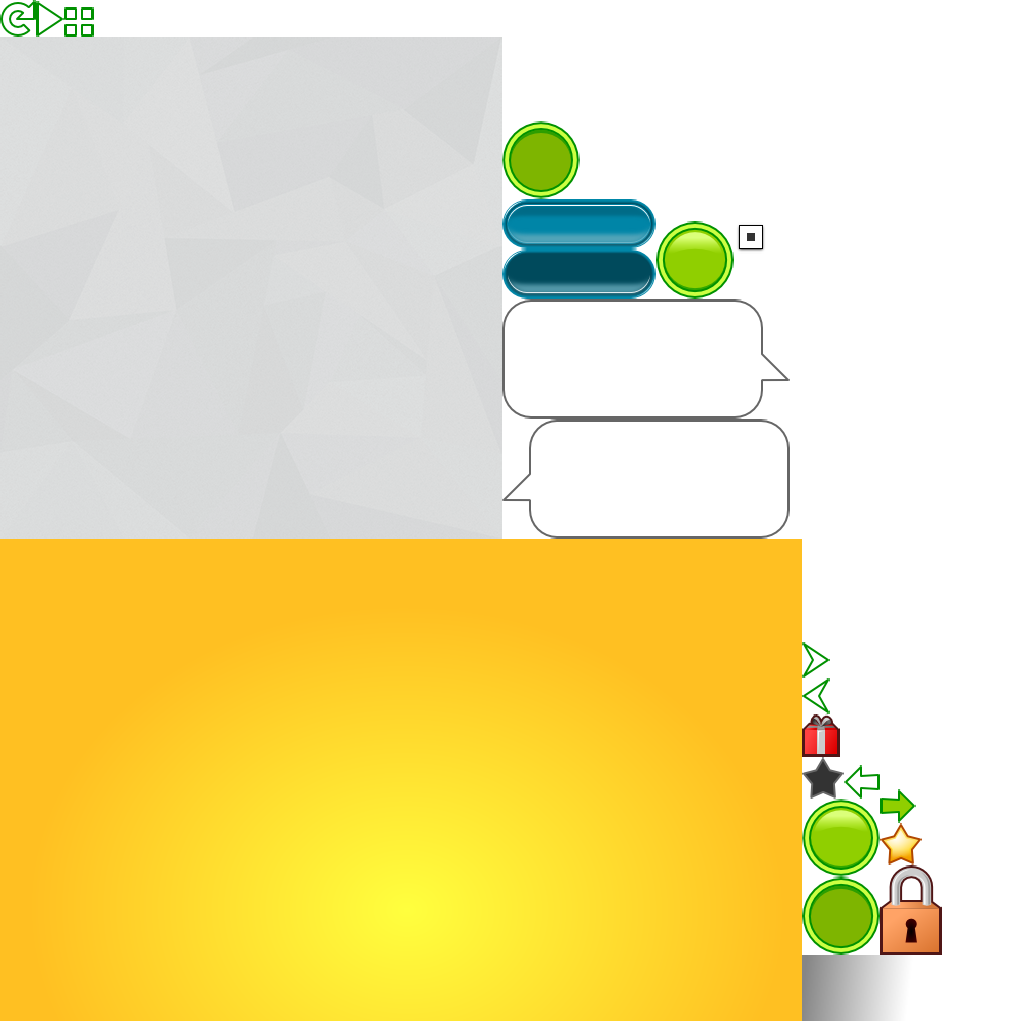
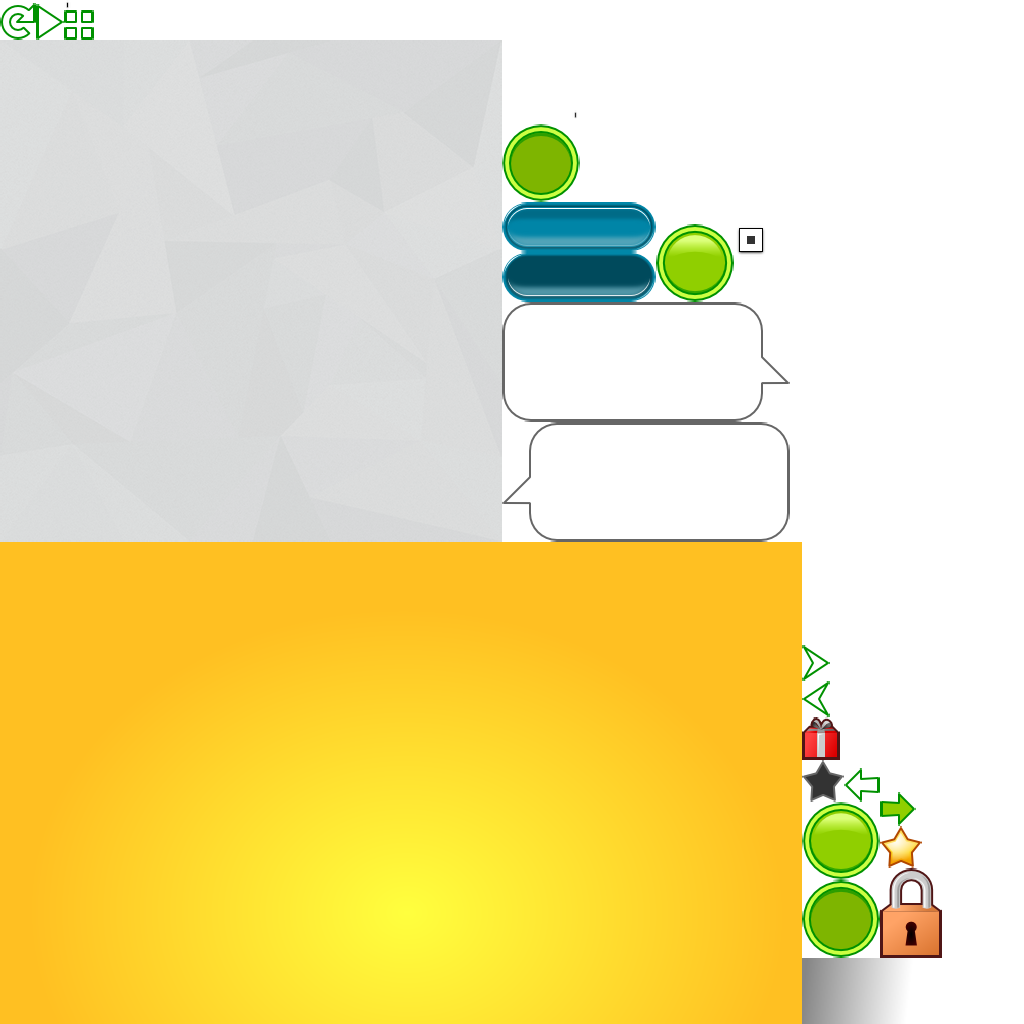
Draw a ruler between world and sandbox buttons

diff --git a/burgerparty/src/com/agateau/burgerparty/screens/WorldListScreen.java b/burgerparty/src/com/agateau/burgerparty/screens/WorldListScreen.java
@@ -6,6 +6,7 @@ import com.agateau.burgerparty.Assets;
 import com.agateau.burgerparty.BurgerPartyGame;
 import com.agateau.burgerparty.utils.AnchorGroup;
 import com.agateau.burgerparty.utils.Signal1;
+import com.agateau.burgerparty.utils.TiledImage;
 import com.agateau.burgerparty.view.BurgerPartyUiBuilder;
 import com.agateau.burgerparty.view.WorldBaseButton;
 import com.agateau.burgerparty.view.WorldListView;
@@ -49,7 +50,16 @@ public class WorldListScreen extends BurgerPartyScreen {
 		protected Actor createActorForElement(XmlReader.Element element) {
 			if (element.getName().equals("WorldListView")) {
 				WorldListView view = new WorldListView(getGame().getLevelWorlds(), -1, getGame().getAssets(), WorldListView.Details.SHOW_STARS);
-				view.addActor(new SandBoxButton());
+
+				SandBoxButton button = new SandBoxButton();
+
+				Actor ruler = new TiledImage(getGame().getAssets().getTextureAtlas().findRegion("ui/vruler"));
+				ruler.setHeight(button.getPrefHeight());
+				ruler.setWidth(6);
+				ruler.setColor(1, 1, 1, 0.4f);
+
+				view.addActor(ruler);
+				view.addActor(button);
 				return view;
 			}
 			return super.createActorForElement(element);
